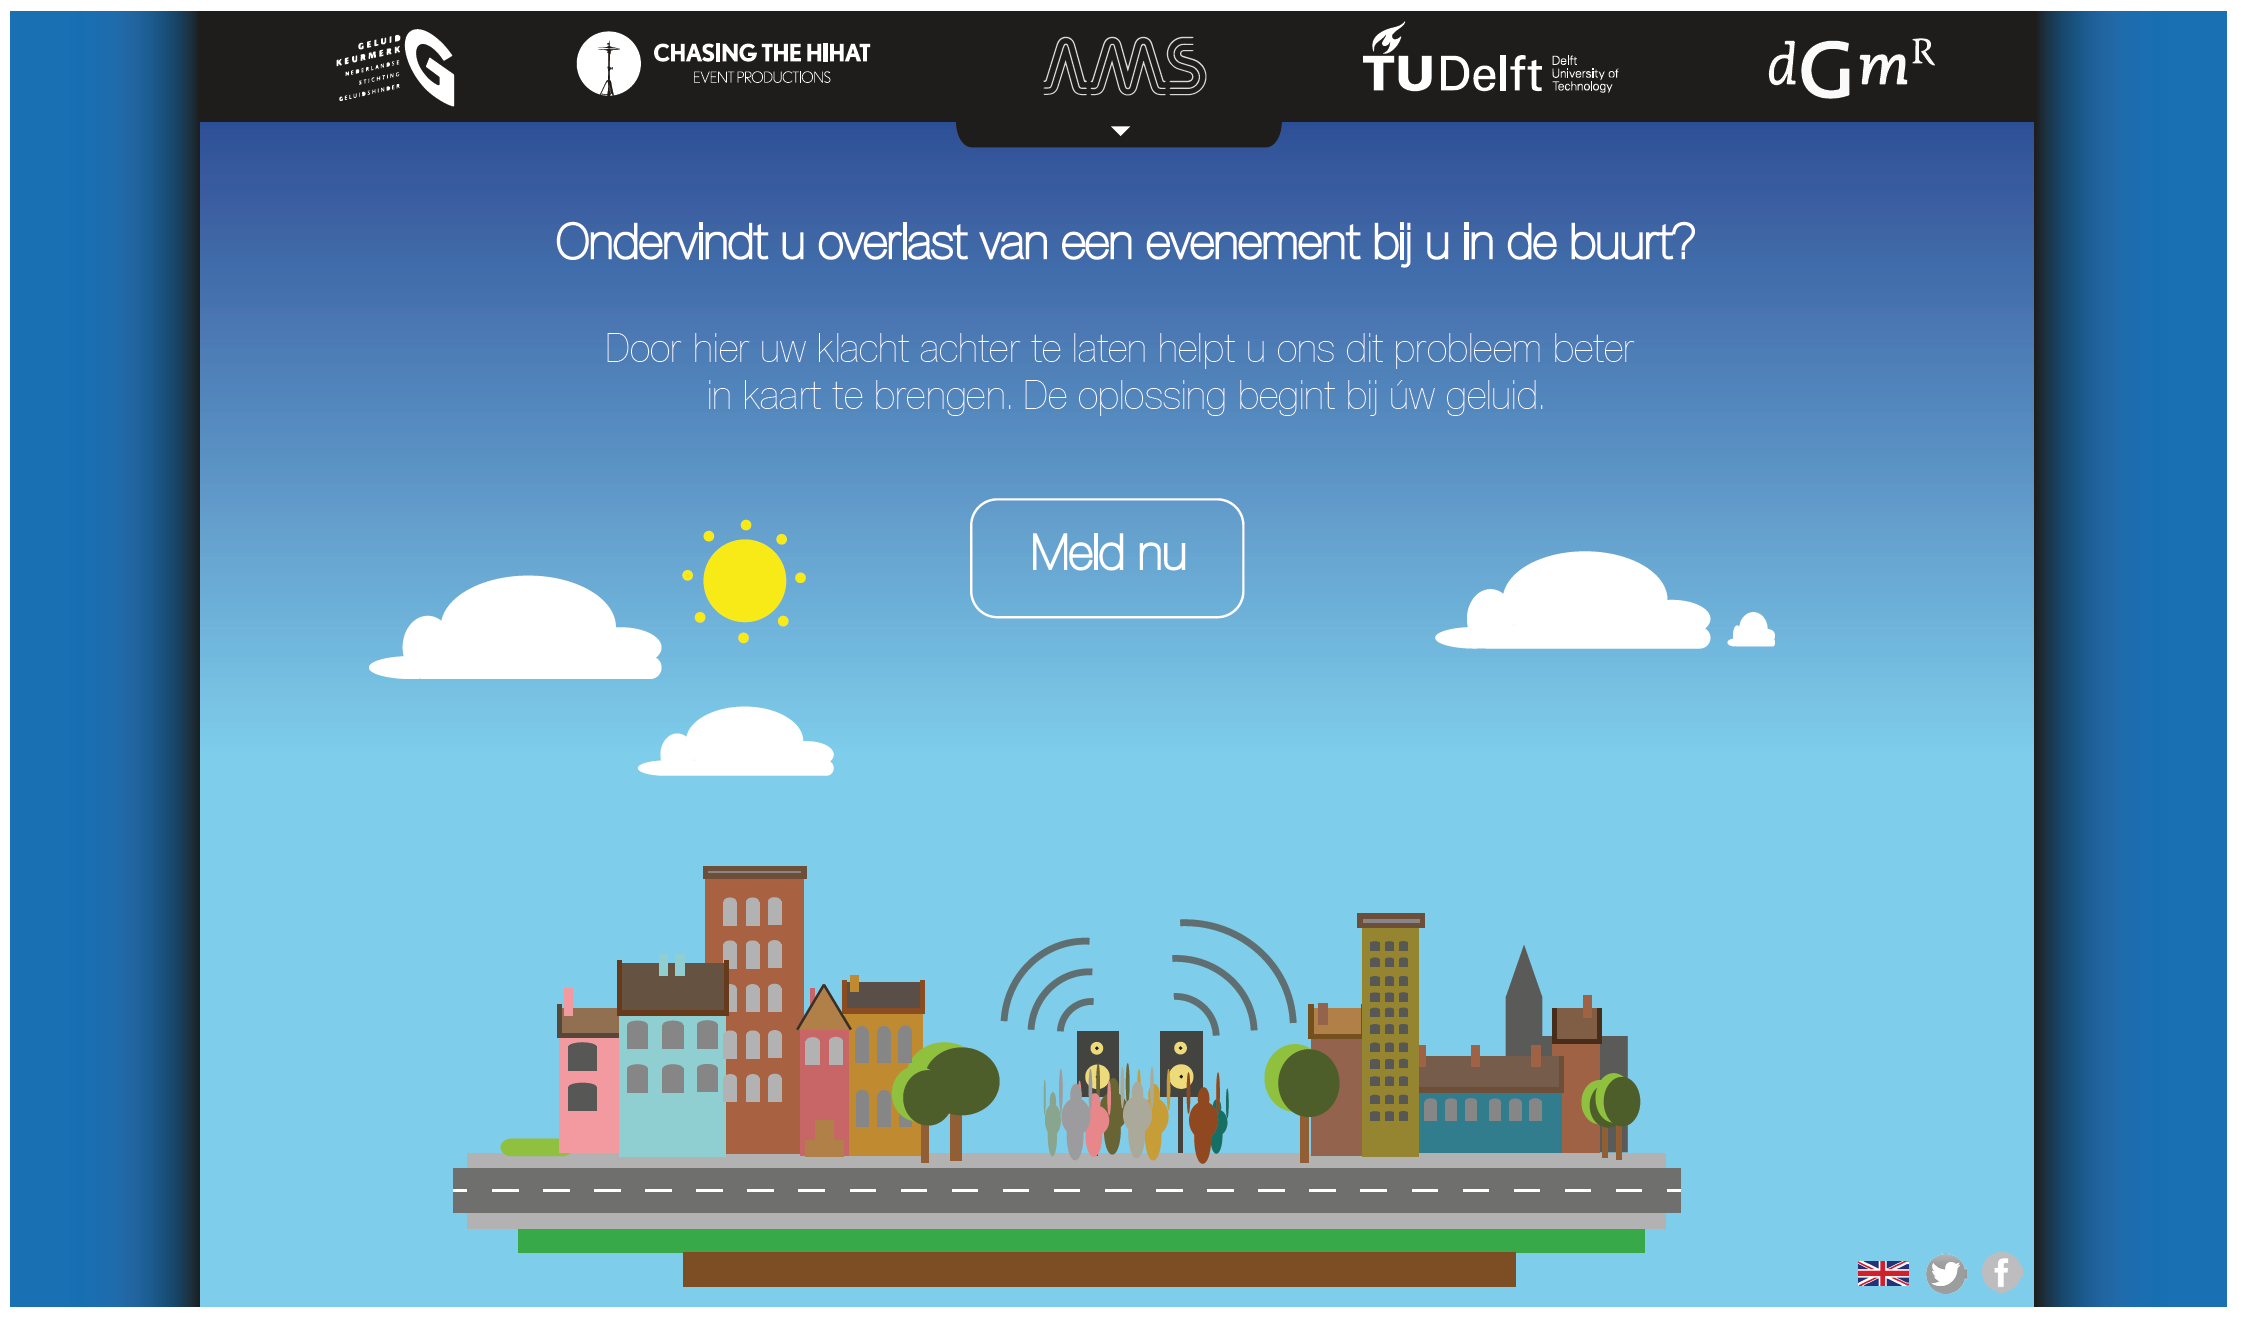
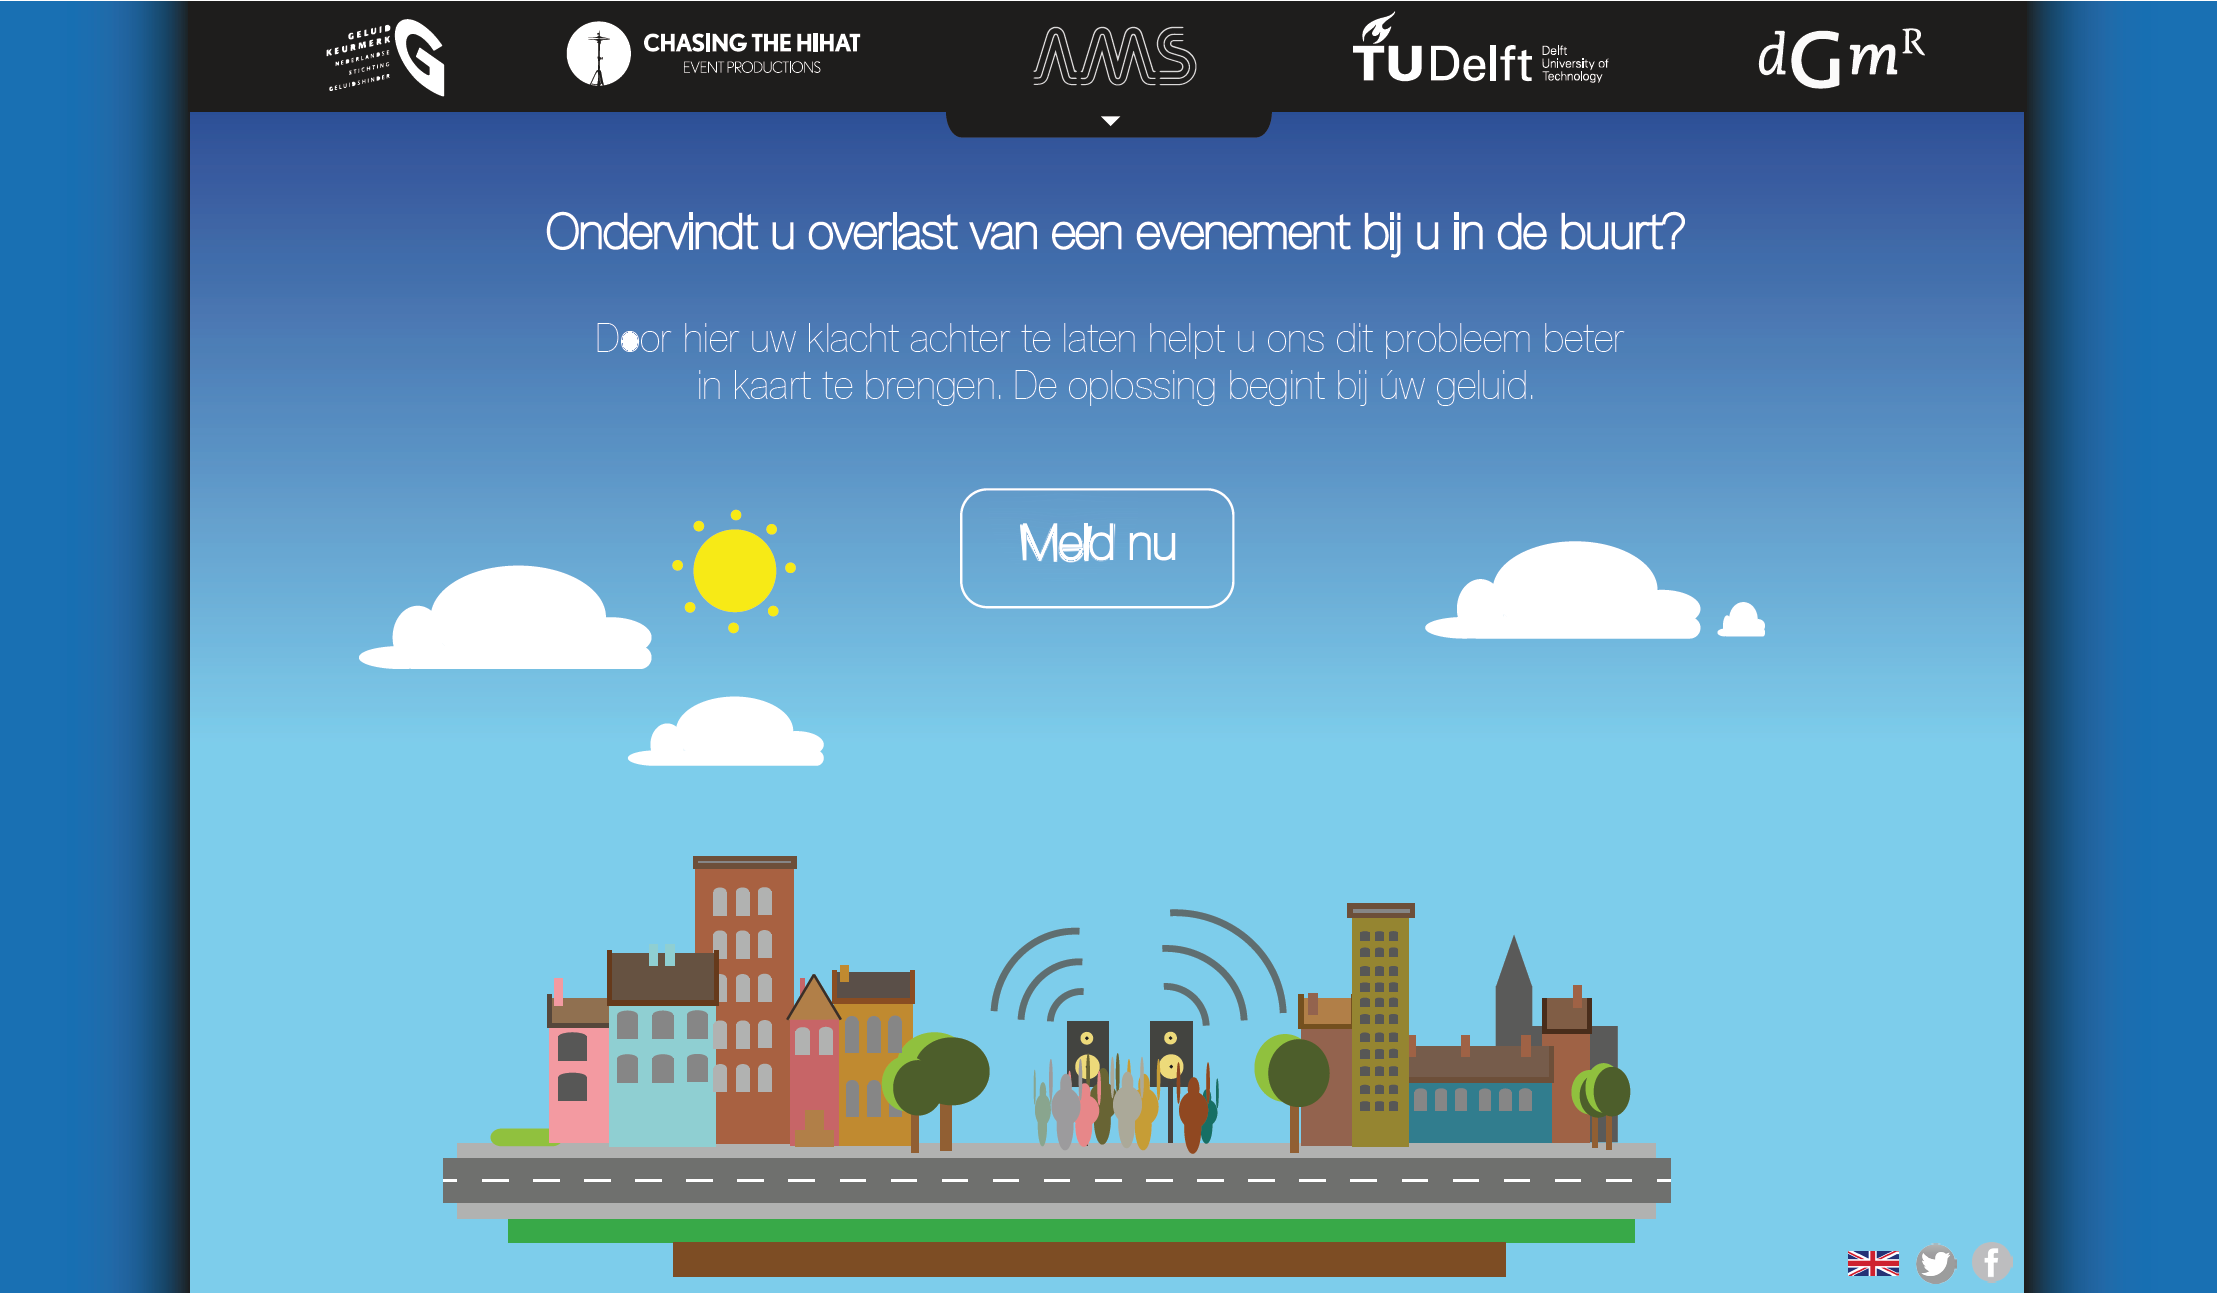
view 100% & 80%

diff --git a/source/stylesheets/all.css.scss b/source/stylesheets/all.css.scss
@@ -35,10 +35,16 @@ body {
     -moz-background-size: cover;
     background-size: cover;
     -o-background-size: cover;
+
  }
+ 
  .footer {
-  padding-top: 400px;
+  padding-top: 475px;
  }
+
+.modal {
+  margin-top: 160px;
+}
 
 
 
@@ -47,8 +53,6 @@ h1 {
   font-size: 28px;
   letter-spacing: -1px;
   text-transform: uppercase;
-  // text-shadow: 0 1px 0 rgba(255, 255, 255, .5);
-  /*background: url("../images/middleman.png") no-repeat center 100px;*/
   padding: 20px 0 10px;
   margin: 0; 
 }
@@ -61,14 +65,58 @@ h4 {
   border-color: white;
   background-color: transparent;
 }
-@media screen and (max-width: 720px) {
-  .welcome {
-    padding-top: 150px;
+@media screen and (max-width: 1600px) {
+ body {
+    background-size: 100%
   }
+  .logobar {
+  margin-right: auto;
+  margin-left: auto;
+  width: 83%;
+}
+.card-block {
+  margin-right: auto;
+  margin-left: auto;
+  width:83%;
+}
+}
+
+@media screen and (max-width: 1300px) {
+ body {
+      background-size: cover;
+  }
+    .logobar {
+  margin-right: auto;
+  margin-left: auto;
+  width: 100%;
+}
+.card-block {
+  margin-right: auto;
+  margin-left: auto;
+  width:100%;
+}
    .footer {
-  padding-top: 50px;
+  padding-top: 200px;
  }
 }
+
+
+@media screen and (max-width: 720px) {
+
+  .welcome {
+    padding-top: 100px;
+  }
+   .footer {
+  padding-top: 25px;
+ }
+}
+
+@media (min-width: 768px){
+.col-sm-1, .col-sm-2, .col-sm-3, .col-sm-4, .col-sm-5, .col-sm-6, .col-sm-7, .col-sm-8, .col-sm-9, .col-sm-10, .col-sm-11, .col-sm-12 {
+    float: right;
+}
+}
+
 .welcome {
 
   -webkit-animation-name: welcome;

diff --git a/source/stylesheets/components/_collapse.css.scss b/source/stylesheets/components/_collapse.css.scss
@@ -5,24 +5,32 @@
   background-attachment: fixed;
   background-position: center;
   background-size: cover;
+  padding-top: 30px;
   padding-bottom: 30px;
+  width:100%;
+  border-bottom-left-radius: 1em;
+  border-bottom-right-radius: 1em;
 }
 
 
 .btn-primary {
   margin-top: 20px;
   background: black;
-  height: 50px;
-  width: 150px;
+  height: 65px;
+  width: 158px;
   border-radius: 10px;
+  border: solid 2px;
 }
 
+
+
 .btn-secondary {
-  margin-top: -15px;
   background: black;
   height: 30px;
   width: 150px;
-  border-radius: 10px;
+  border-bottom-left-radius: 1em;
+  border-bottom-right-radius: 1em;
+  bottom-border-radius: 15px;
 }
 
 .btn-link {
@@ -30,14 +38,5 @@
 }
 
 .fa-sort-asc {
-  padding-top: 7px;
   color: white;
 }
-.fa-sort-asc :hover{
-  
-  color: blue;
-}
-
-// .card-text {
-//   padding-bottom: 115px;
-// }

diff --git a/source/stylesheets/components/_logobar.css.scss b/source/stylesheets/components/_logobar.css.scss
@@ -35,8 +35,8 @@
 .logo {
   flex: 0 1 auto;
   align-self: auto;
-  color:white !important;
-  width:100px;
+  // color:white !important;
+  // width:100px;
   height:50px
 }
 
